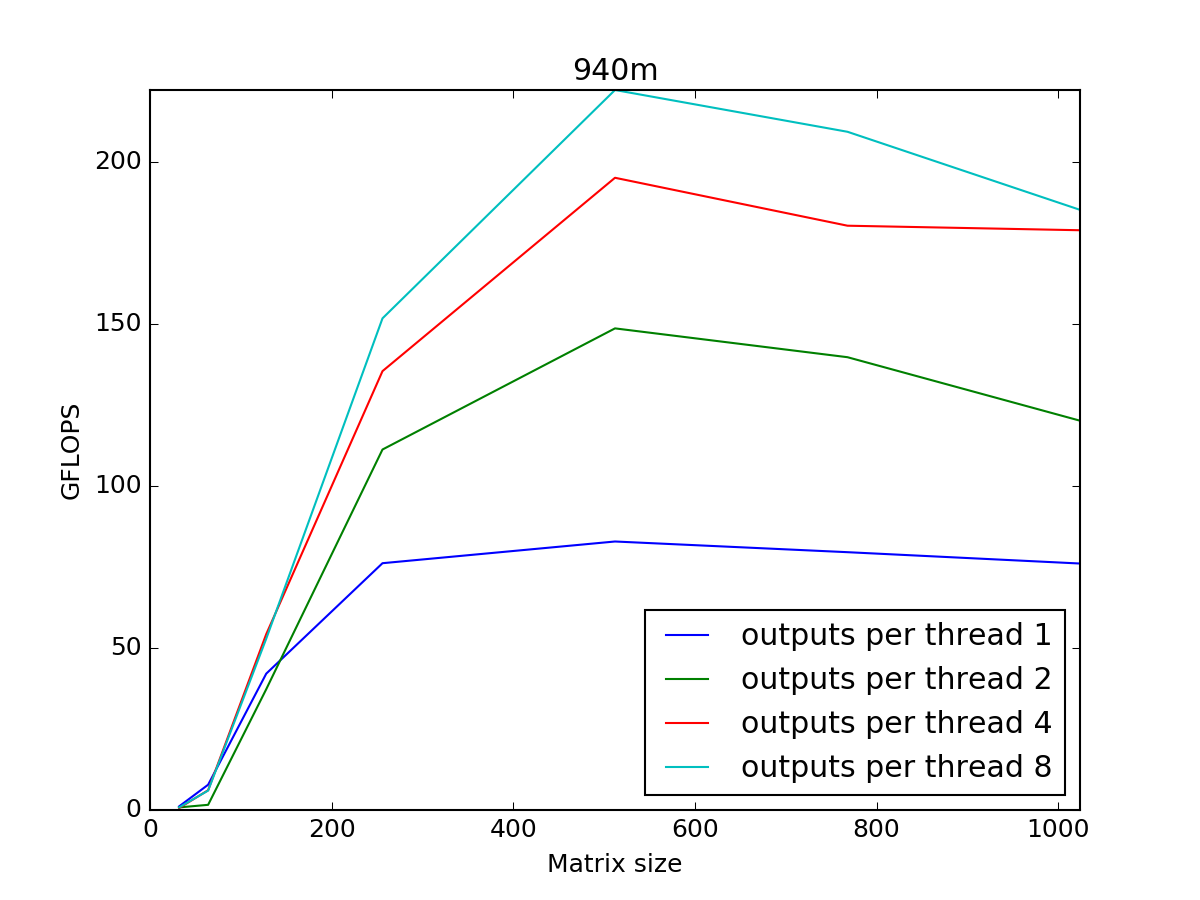
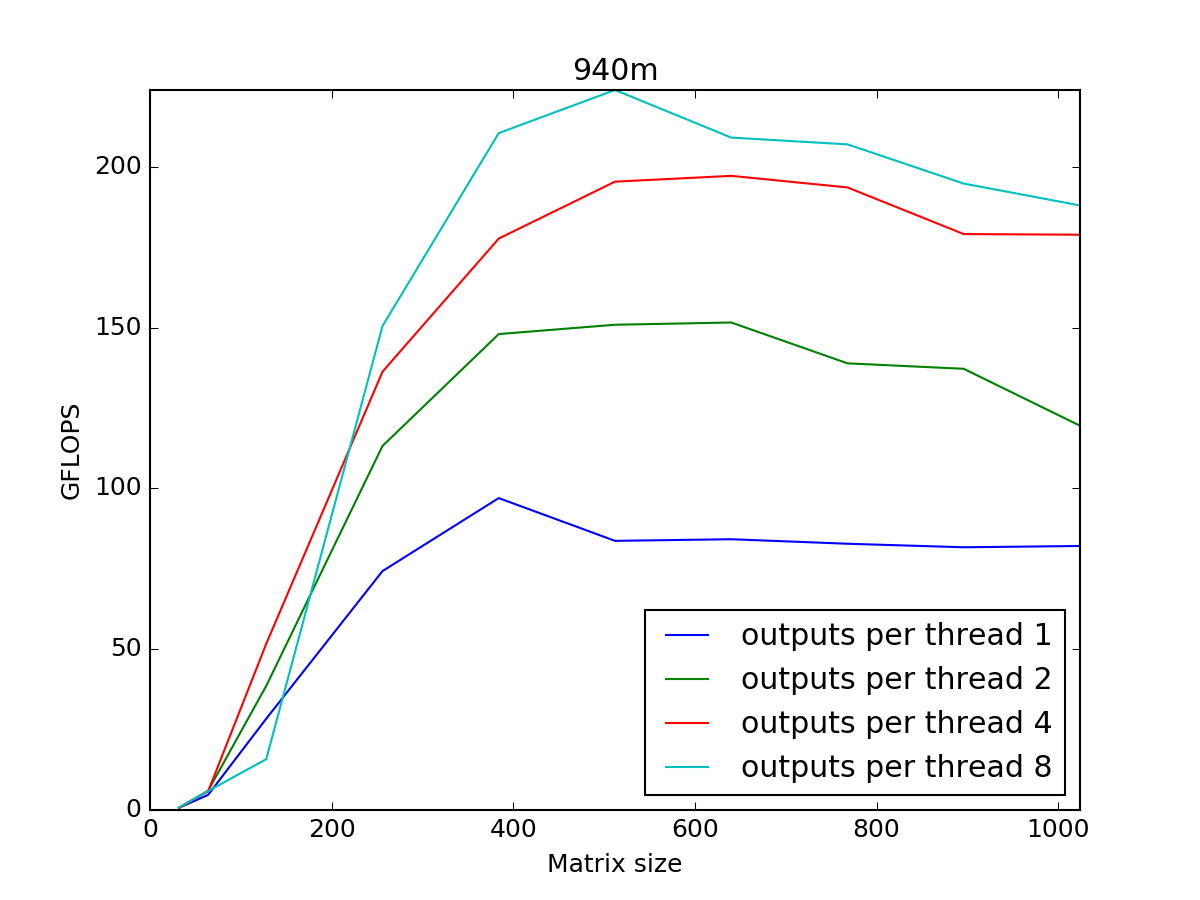
make mm graph a bit more detailed

diff --git a/gpuexperiments/volkov_mm.py b/gpuexperiments/volkov_mm.py
@@ -217,10 +217,10 @@ for experiment in experiments:
         times.append({'name': name, 'time': t, 'gflops': gflops})
         print('name', name, 't', t, 'gflops', gflops)
 
-        if S <= 256:
+        if S <= 128:
             S *= 2
         else:
-            S += 256
+            S += 128
 
 f = open('/tmp/volkov_mm_%s.tsv' % deviceSimpleName, 'w')
 print('')
